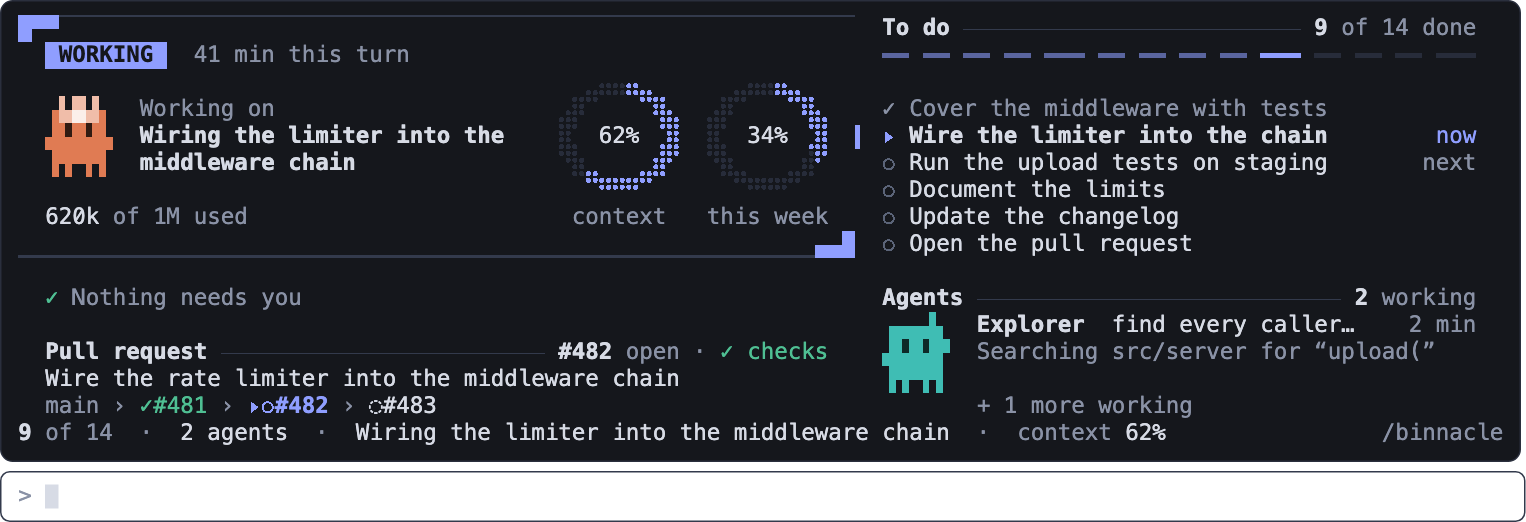
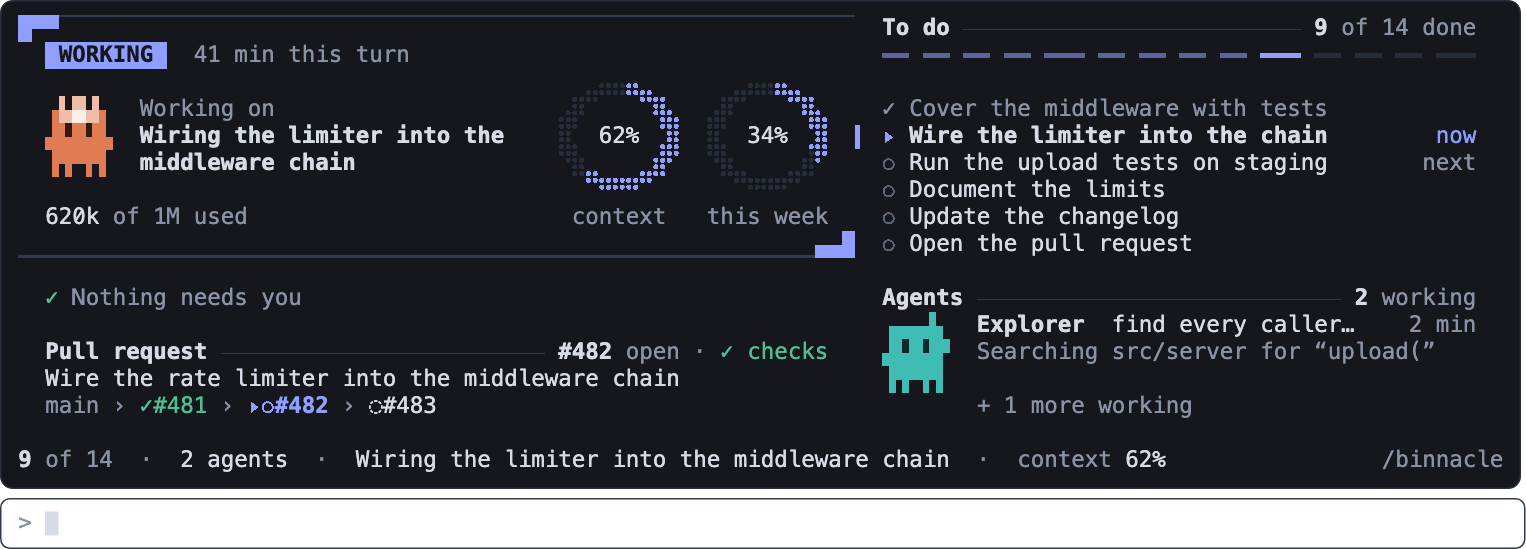
Ready to share: tests pass on any platform, the band keeps Watch, small fixes (#7)
- Tests: the journal, export, deep-search and step-page tests simulated
Windows paths, which the test kit resolves against the working folder on
macOS and Linux, so 21 of them failed there (the features work: the live
  journal is written). A shared diskPath() keeps their Windows semantics
and makes them pass on any host. The journal tests' fake process runner
  now counts only folder removals, not the PR fetch's git call.
- Band (R57): the second row keeps its Watch count or a waiting ask
ahead
  of the PR chip; the chip gives way first. The desktop app's Svg band
draws the same PR chip. The strip in the band leaves one blank row above
  the band's own line where a row is spare.
- README: the band's Watch wording; band, strip, desktop and Show as
  images redrawn.

Checks: `claude plugin test` over all 49 files: 1,015 tests, 0 failures
(the 21 that always failed on macOS now pass). `tsc -p mod`, `npm test`
(480) and `claude plugin validate` pass.

<!-- This is an auto-generated comment: release notes by coderabbit.ai
-->

<!-- coderabbit-ai-generated:v1 -->

## Summary by CodeRabbit

* **New Features**
* The compact band can now display pull request details, including the
PR number, check status, and stack position when available.
* PR details appear only when there’s room beside the band’s status or
waiting message; calm status text can yield space for them.
* A blank row now separates strip content from the band’s line when
space allows.
* **Documentation**
[…]

diff --git a/mod/hooks/views/svg.ts b/mod/hooks/views/svg.ts
@@ -14,11 +14,12 @@
 // none of the views that have one), so vitest loads it. The header's words
 // come from the pane's own functions in `svgview.tsx` (`deckHead`), handed in.
 
-import type { AgentRow, Timeline, UiState } from '../../types'
+import type { AgentRow, Timeline, UiState, PrState } from '../../types'
 import { needs, watch } from '../model/alerts'
 import type { NeedsOptions } from '../model/alerts'
 import { summary } from '../model/select'
 import { agentsWords, bandModel, bandWords, needsPiece } from './bandmodel'
+import { checksMark, stackIndex } from '../model/pr'
 import type { BandModel } from './bandmodel'
 import { critterBox, DOT_BITS, gaugeHue, PALETTE } from './raster'
 import type { Ground, Hue, Palette } from './raster'
@@ -379,6 +380,22 @@ const bandWidth = (cols: number): number => Math.max(480, Math.min(1400, Math.ro
 /** One piece of a line of mixed styles. */
 type Piece = { t: string; fill?: string; bold?: boolean }
 
+/** The band's PR chip as Svg pieces (R57): `#482 ✓ stack 2/3`, the checks mark in mint or red, the stack words dim. */
+function chipPieces(pr: PrState | undefined): Piece[] {
+  if (pr === undefined || (pr.current === undefined && pr.stack === undefined)) return []
+  const out: Piece[] = []
+  const n = pr.current?.number
+  if (n !== undefined) {
+    out.push({ t: `#${n}`, bold: true })
+    const c = pr.current?.checks
+    const mark = checksMark(c)
+    if (mark !== '') out.push({ t: ` ${mark}`, fill: c === 'pass' ? ink('mint') : c === 'fail' ? ink('red') : DIM() })
+  }
+  const items = pr.stack?.items
+  if (items !== undefined && items.length > 1) out.push({ t: `${out.length > 0 ? ' ' : ''}stack ${stackIndex(pr) + 1}/${items.length}`, fill: DIM() })
+  return out
+}
+
 /** Pieces as the tspans of one `<text>`; `size` is the line's. */
 function tspans(x: number, y: number, pieces: Piece[], o: { size?: number; anchor?: 'end' } = {}): string {
   const anchor = o.anchor !== undefined ? ` text-anchor="${o.anchor}"` : ''
@@ -413,7 +430,7 @@ const figurePiece = (pct: number): Piece => ({ t: `${pct}%`, bold: pct >= 70, fi
  * to-do bar and its words. At idle one dim line. `/binnacle` is the Button beside
  * the Svg, not drawn in it. \`model\` is the band's own when it has read one.
  */
-export function bandSvg(t: Timeline, u: UiState, now: number, cols: number, model?: BandModel, g: Ground = 'night'): string {
+export function bandSvg(t: Timeline, u: UiState, now: number, cols: number, model?: BandModel, g: Ground = 'night', pr?: PrState): string {
   ground = g
   const m = model ?? bandModel(t, u, now)
   const W = bandWidth(cols)
@@ -474,7 +491,18 @@ export function bandSvg(t: Timeline, u: UiState, now: number, cols: number, mode
     if (m.working > 0) words.push(...(words.length > 0 ? [sep] : []), { t: agentsWords(m), fill: DIM() })
     words.push(...(words.length > 0 ? [sep] : []), { t: needsPiece(m), fill: DIM() })
   }
-  s += tspans(wx, 43, words, { size: 12.5 })
+  // R57: as on the terminal, only the calm "nothing needs you" yields to the chip; a Watch count or a waiting ask does not.
+  const calm = m.form === 'working' && needsPiece(m) === 'nothing needs you'
+  // R57: the PR chip at the right of row 2, as the terminal band draws it (`#482 ✓ stack 2/3`).
+  const chip = chipPieces(pr)
+  const chipW = chip.reduce((n, p) => n + p.t.length, 0) * 12.5 * 0.52
+  const widthOf = (ps: Piece[]): number => ps.reduce((n, p) => n + p.t.length, 0) * 12.5 * 0.52
+  const fits = (ps: Piece[]): boolean => wx + widthOf(ps) + 24 + chipW <= right
+  // Without the calm piece (and its separator) when that is what makes room for the chip.
+  const shown = chip.length > 0 && !fits(words) && calm ? words.slice(0, words.length > 1 ? -2 : -1) : words
+  const withChip = chip.length > 0 && fits(shown)
+  s += tspans(wx, 43, withChip ? shown : words, { size: 12.5 })
+  if (withChip) s += tspans(right, 43, chip, { size: 12.5, anchor: 'end' })
   return bounded(`${s}</svg>`, W, dm)
 }
 
@@ -503,6 +531,8 @@ export function nowDeckAlt(t: Timeline, u: UiState, now: number, head: DeckHead,
 }
 
 /** The band in words. */
-export function bandAlt(t: Timeline, u: UiState, now: number, model?: BandModel): string {
-  return bandWords(model ?? bandModel(t, u, now)).slice(0, MAX_ALT)
+export function bandAlt(t: Timeline, u: UiState, now: number, model?: BandModel, pr?: PrState): string {
+  // R57: the alt says what the picture says, the PR chip included.
+  const chip = chipPieces(pr).map(p => p.t).join('').trim()
+  return `${bandWords(model ?? bandModel(t, u, now))}${chip !== '' ? `. Pull request ${chip}` : ''}`.slice(0, MAX_ALT)
 }

diff --git a/mod/hooks/views/band.tsx b/mod/hooks/views/band.tsx
@@ -263,31 +263,38 @@ function rowOne(m: BandModel, room: number): Run[] {
 
 /** Row 2: the to-do bar and its words, `/binnacle` at the right. */
 function rowTwo(ctx: ViewCtx, $: EngineInterface, m: BandModel, room: number, countCue = false): RenderElement {
-  // R46: the PR chip (`#123 ✓ stack 2/4`) before `/binnacle` while there is room for the to-do words beside it.
-  const chip = prChip(ctx.pr)
-  const withChip = chip.length > 0 && room - widthOf(chip) - 3 - MC.length >= 40
-  const mc: Run[] = withChip ? [...chip, spaces(3), dim(MC)] : [dim(MC)]
-  const mcW = widthOf(mc)
   const cells = Math.max(10, Math.min(BAR_CELLS, room - 34))
   const hasBar = m.total > 0
   const start = hasBar ? cells + BAR_GAP : 0
-  const space = room - start - 1 - mcW
   const count: Run[] = [countCue ? { text: String(m.done), bold: true, color: C.accent } : bold(String(m.done)), dim(` of ${m.total} done`)]
   const agents: Run[] = m.working > 0 ? [dim(agentsWords(m))] : []
   const pieces: Run[][] = []
-  if (m.ask !== undefined && commandBelow(m, room)) {
-    // M9, I5: the ask's tool and its command whole, in place of the to-do words; cut at a word only past the row.
-    const cmd: Run[] = [bold(m.ask.tool), plain('  '), bold(m.ask.command)]
-    const fitted = widthOf(cmd) + 1 + mcW <= room ? cmd : trimRuns(cmd, room - 1 - mcW)
-    return line(ctx, $, 'band-row-2', spread(fitted, mc, room))
-  }
+  // The calm piece ("nothing needs you") may give way to the chip; a Watch count or a waiting ask may not.
+  let calm = false
   if (m.form === 'asked') {
     const waiting: Run = { text: `${m.waiting} waiting`, color: CK.ask }
     pieces.push(...(hasBar ? [count] : []), m.working > 0 ? [dim(`${m.working} ${m.working === 1 ? 'agent' : 'agents'} working, `), waiting] : [waiting])
   } else if (m.form === 'stopped') {
     pieces.push(...(hasBar ? [count] : []))
   } else {
-    pieces.push(...(hasBar ? [count] : []), ...(agents.length > 0 ? [agents] : []), [dim(needsPiece(m))])
+    const needs = needsPiece(m)
+    calm = needs === 'nothing needs you'
+    pieces.push(...(hasBar ? [count] : []), ...(agents.length > 0 ? [agents] : []), [dim(needs)])
+  }
+  // R46, R57: the PR chip (`#123 ✓ stack 2/4`) sits before `/binnacle` only while every word that matters still fits beside it.
+  const chip = prChip(ctx.pr)
+  const kept = calm ? pieces.slice(0, -1) : pieces
+  const chipW = chip.length > 0 ? widthOf(chip) + 3 : 0
+  // On the command row (M9) the chip must fit beside the whole command, which takes the to-do words' place.
+  const cmd: Run[] | undefined = m.ask !== undefined && commandBelow(m, room) ? [bold(m.ask.tool), plain('  '), bold(m.ask.command)] : undefined
+  const withChip = chip.length > 0 && (cmd !== undefined ? widthOf(cmd) + 1 + chipW + MC.length <= room : widthOf(joined(kept, 3)) <= room - start - 1 - chipW - MC.length)
+  const mc: Run[] = withChip ? [...chip, spaces(3), dim(MC)] : [dim(MC)]
+  const mcW = widthOf(mc)
+  const space = room - start - 1 - mcW
+  if (cmd !== undefined) {
+    // M9, I5: the ask's tool and its command whole, in place of the to-do words; cut at a word only past the row.
+    const fitted = widthOf(cmd) + 1 + mcW <= room ? cmd : trimRuns(cmd, room - 1 - mcW)
+    return line(ctx, $, 'band-row-2', spread(fitted, mc, room))
   }
   let words: Run[] = joined(pieces, 3)
   for (let n = pieces.length; n > 0 && widthOf(words) > space; n--) words = joined(pieces.slice(0, n - 1), 3)
@@ -423,7 +430,7 @@ export function registerBand(on: On, options: { look?: string; ground?: unknown;
       const ctx: ViewCtx = { e: e as RenderInput, t, u, cols, now, look, site: BAND_SITE, ground: groundOf(options.ground, theme), pr }
       if (!isStrip && !m.nothing) {
         // `/binnacle` stays pressable beside the Svg: a press opens the pane, as the command does.
-        const svg = bandSvgOf($, { e: e as RenderInput, look, t, u, now, cols, model: m, ground: ctx.ground ?? 'night', presses: [{ key: 'band-mc', label: MC, onPress: () => leaveStrip($) }] })
+        const svg = bandSvgOf($, { e: e as RenderInput, look, t, u, now, cols, model: m, ground: ctx.ground ?? 'night', pr, presses: [{ key: 'band-mc', label: MC, onPress: () => leaveStrip($) }] })
         if (svg !== null) return svg
       }
       // R55: while the person tries the Show as styles, their row sits on top of the band or the strip.

diff --git a/mod/hooks/journal.test.tsx b/mod/hooks/journal.test.tsx
@@ -7,6 +7,7 @@ import { empty } from './model/reduce'
 import { initialUi } from './state'
 import { problems } from './model/select'
 import { todoBlock } from './model/todo'
+import { diskPath } from './fsdisk.testkit'
 
 const HOME = 'C:/home'
 const ROOT = `${HOME}/.claude/binnacle`
@@ -16,7 +17,7 @@ const NOW = 10 * DAY
 
 type File = { text: string; mtimeMs: number }
 
-const norm = (p: string): string => p.replace(/\\/g, '/')
+const norm = diskPath
 
 // An in-memory disk: files in a map (folders implied by their paths), and
 // the removals the platform's own command was asked for.
@@ -267,6 +268,10 @@ test('with no home folder the journal writes nothing', async () => {
 })
 
 // Through the mod itself: the disk answers the engine's fs calls beneath it.
+const NOT_A_REPO = { exitCode: 128, stdout: '', stderr: 'fatal: not a git repository', isStdoutTruncated: false, isStderrTruncated: false }
+/** The platform's own folder removal, as journal.ts runs it: `cmd /d /c rmdir /s /q` on Windows, `rm -rf --` elsewhere. */
+const isRemoval = (argv: readonly string[]): boolean => (argv[0] === 'cmd' && argv[3] === 'rmdir') || argv[0] === 'rm'
+
 // `box.sessionId` is what `$.session.id()` answers; a test may change it.
 // With `ownState`, the world keeps $.state itself (see `stateBeneath`) so a
 // test can reset it as a /clear does.
@@ -287,7 +292,9 @@ function world(on: On, d: Disk, sessionId: string, opts: { failCommand?: boolean
   on('fs.exists', (_, e) => ({ value: d.exists(e.path) }))
   on('fs.list', (_, e) => ({ value: d.list(e.path) }))
   on('fs.stat', (_, e) => ({ value: d.stat(e.path) }))
-  on('process.run', (_, e) => ({ value: d.remove(e.argv) }))
+  // Prune's removal reaches the disk; any other command (the PR fetch's git and gh at session start)
+  // answers as it would outside a repository, so it never counts as a removal.
+  on('process.run', (_, e) => ({ value: isRemoval(e.argv) ? d.remove(e.argv) : NOT_A_REPO }))
   if (opts.ownState === true) {
     box.resetState = stateBeneath(on, box)
     return box

diff --git a/mod/hooks/views/strip.test.tsx b/mod/hooks/views/strip.test.tsx
@@ -136,13 +136,14 @@ test('text form: /binnacle strip closes the pane, writes ui.strip and the band d
   expect(uiOf(w).paneOpen).toBe(false)
   for (const surface of SURFACES) {
     const rows = await bandRows($, 110, 20, surface)
-    // Now's header (9 rows), a blank and the needs slot in the left 62 columns, To do and Agents beside them, then the band's one compact row.
-    expect(rows.length).toBe(12)
+    // Now's header (9 rows), a blank and the needs slot in the left 62 columns, To do and Agents beside them, a blank (R57), then the band's one compact row.
+    expect(rows.length).toBe(13)
     expect(rows[0]!.startsWith('┏━━')).toBe(true)
     expect(rows[1]!.startsWith('   WORKING')).toBe(true)
     expect(rows.some(r => colOf(r, FOCUS.split(' ')[0]!) === 9)).toBe(true)
     expect(colOf(rows[0], 'To do')).toBe(64)
-    const line = rows[11]!
+    expect(rows[11]!.trim()).toBe('')
+    const line = rows[12]!
     expect(line.startsWith('1 of 3  ·  2 agents')).toBe(true)
     expect(line.length).toBe(110)
   }
@@ -258,8 +259,8 @@ test('from 96 columns the two columns sit side by side: the header in the left 6
   expect(colOf(rows[0], 'To do')).toBe(64)
   expect(rows.some(r => colOf(r, 'Agents') === 64)).toBe(true)
   expect(rows.some(r => colOf(r, 'Explorer') === 71)).toBe(true)
-  // Header 9 rows, a blank, the all-clear line: the right column trimmed to that height, then the compact line.
-  expect(rows.length).toBe(12)
+  // Header 9 rows, a blank, the all-clear line: the right column trimmed to that height, then a blank (R57) and the compact line.
+  expect(rows.length).toBe(13)
   expect(rows[10]).toContain('✓ Nothing needs you')
 })
 

diff --git a/mod/hooks/views/svgview.tsx b/mod/hooks/views/svgview.tsx
@@ -4,7 +4,7 @@
 
 import type { EngineInterface, RenderElement, RenderInput } from 'claude-code'
 
-import type { Timeline, UiState } from '../../types'
+import type { PrState, Timeline, UiState } from '../../types'
 import { headerState, needs } from '../model/alerts'
 import { paneNeedsOptions } from './needs'
 import { todoBlock } from '../model/todo'
@@ -95,7 +95,7 @@ export function deckSvg(ctx: ViewCtx, $: EngineInterface, presses: SvgPress[] = 
 }
 
 /** What the band's Svg reads: the band's render input and its look, the state, the clock and its width; `presses` go beside it. */
-export type BandSvgArgs = { e: RenderInput; look: Look; t: Timeline; u: UiState; now: number; cols: number; model?: BandModel; ground?: Ground; presses?: SvgPress[] }
+export type BandSvgArgs = { e: RenderInput; look: Look; t: Timeline; u: UiState; now: number; cols: number; model?: BandModel; ground?: Ground; presses?: SvgPress[]; pr?: PrState }
 
 /**
  * The band as one interactive Svg when the look is `svg`, else null: the
@@ -110,7 +110,7 @@ export function bandSvgOf($: EngineInterface, a: BandSvgArgs): RenderElement | n
   const { Box, Svg } = table
   return (
     <Box key="band-svg" flexDirection="row" columnGap={1}>
-      <Svg source={bandSvg(a.t, a.u, a.now, a.cols, a.model, a.ground ?? 'night')} alt={bandAlt(a.t, a.u, a.now, a.model)} isInteractive />
+      <Svg source={bandSvg(a.t, a.u, a.now, a.cols, a.model, a.ground ?? 'night', a.pr)} alt={bandAlt(a.t, a.u, a.now, a.model, a.pr)} isInteractive />
       {pressRow($, a.e, 'band-svg-presses', a.presses ?? [])}
     </Box>
   )

diff --git a/mod/hooks/views/now.test.tsx b/mod/hooks/views/now.test.tsx
@@ -8,6 +8,7 @@ import { agent, asked, busy, finished, idle, longList, NOW, step, watching } fro
 import { warmWords } from './fit'
 import { dealRows } from './overview'
 import { backTo, keepLog, LOGS, screen } from './screen.testkit'
+import { diskPath } from '../fsdisk.testkit'
 
 // Now in the cockpit (spec "Screens", its Tests line, and the rulings the
 // screen carries). The mock boards themselves are now.fidelity.test.tsx's.
@@ -251,7 +252,7 @@ test('Now at rest e: the armed hint exports the handoff, the same write /binnacl
     throw new Error('ENOENT')
   })
   on('fs.write', (_, e) => {
-    writes.push(e.path.split(String.fromCharCode(92)).join('/'))
+    writes.push(diskPath(e.path))
     return { value: undefined }
   })
   on('ui.copy', () => ({ value: { isCopied: true as const } }))
@@ -264,7 +265,7 @@ test('Now at rest e: the armed hint exports the handoff, the same write /binnacl
   await ui.unmount()
   expect(writes).toHaveLength(1)
   expect(writes[0]).toMatch(/export-.*\.md$/)
-  expect((stored.get('timeline') as Timeline).lastExport?.path.split(String.fromCharCode(92)).join('/')).toBe(writes[0])
+  expect(diskPath((stored.get('timeline') as Timeline).lastExport?.path ?? '')).toBe(writes[0])
   // the command runs the same handler: with the clock held, the same path
   await $.command.run({ command: 'binnacle', args: 'export' } as never)
   expect(writes).toHaveLength(2)

diff --git a/mod/hooks/views/stripband.tsx b/mod/hooks/views/stripband.tsx
@@ -160,8 +160,11 @@ export function stripBandView(ctx: ViewCtx, $: EngineInterface, opts: BandStrip)
   const press: Press = f => andThen(f, opts.after)
   const body = Math.max(0, opts.maxRows - 1)
   const st = nowState(ctx)
-  const compact = (
+  // R57: one blank row between the strip and the band's own line under it, so the stack row and that line never
+  // touch; only where the strip's rows leave a spare row (a blank row never costs content or passes maxRows).
+  const compact = (used: number): RenderElement => (
     <Box key="strip-line" flexDirection="column">
+      {used > 0 && used + 2 <= opts.maxRows ? blank(ctx, $, 'strip-line-gap') : null}
       {opts.line}
     </Box>
   )
@@ -173,7 +176,7 @@ export function stripBandView(ctx: ViewCtx, $: EngineInterface, opts: BandStrip)
     return (
       <Box flexDirection="column">
         {columns(ctx, $, left, right)}
-        {compact}
+        {compact(Math.max(leftH, right.reduce((n, el) => n + heightOf(el), 0)))}
       </Box>
     )
   }
@@ -191,7 +194,7 @@ export function stripBandView(ctx: ViewCtx, $: EngineInterface, opts: BandStrip)
   return (
     <Box flexDirection="column">
       {stacked}
-      {compact}
+      {compact(stacked.reduce((n, el) => n + heightOf(el), 0))}
     </Box>
   )
 }

diff --git a/mod/hooks/views/handoff.test.tsx b/mod/hooks/views/handoff.test.tsx
@@ -4,6 +4,7 @@ import type { On } from 'claude-code'
 import type { Timeline } from '../../types'
 import { empty } from '../model/reduce'
 import { digestParts, KEPT_WORDS } from './handoff'
+import { diskPath } from '../fsdisk.testkit'
 
 // The engine beneath the mod for /binnacle export: a timeline held under the
 // current shape, a home folder, and a disk and clipboard that accept.
@@ -28,7 +29,7 @@ function world(on: On, t: Timeline, env: Record<string, string> = { USERPROFILE:
     return { value: { isSet: true as const, version } }
   })
   on('fs.write', (_, e) => {
-    writes.push(e.path.replace(/\\/g, '/'))
+    writes.push(diskPath(e.path))
     return { value: undefined }
   })
   on('fs.read', () => {
@@ -47,7 +48,7 @@ test('/binnacle export records when and where it wrote', async ($, on) => {
   expect(writes.length).toBe(1)
   const t = stored.get('timeline') as Timeline
   expect(t.lastExport?.at).toBe(1_000_000)
-  expect(t.lastExport?.path.replace(/\\/g, '/')).toBe(writes[0])
+  expect(diskPath(t.lastExport?.path ?? '')).toBe(writes[0])
 })
 
 test('/binnacle export with no home records nothing', async ($, on) => {

diff --git a/mod/hooks/fsdisk.testkit.ts b/mod/hooks/fsdisk.testkit.ts
@@ -1,0 +1,15 @@
+// A test helper, not part of the mod. Imported by *.test.ts(x) files only.
+//
+// Tests simulate Windows (USERPROFILE 'C:/Users/x', OS 'Windows_NT'), so the
+// mod asks for paths like 'C:/Users/x/.claude/binnacle/...'. On a POSIX host
+// the test kit resolves such a path, which is not absolute there, against the
+// working directory before a hook sees it: '/tmp/run/C:/Users/x/...'. This
+// cuts anything before a Windows drive and turns backslashes into slashes, so
+// a fake disk keyed by Windows paths, and a path assertion, read the same on
+// Windows and on macOS or Linux.
+
+/** The Windows path the mod asked for, from the path the test kit handed a hook. */
+export function diskPath(path: string): string {
+  // Greedy: the last drive-like segment, so a working folder holding one (`/tmp/a:/run/C:/...`) is cut whole.
+  return path.replace(/\\/g, '/').replace(/^.*(?=[A-Za-z]:\/)/, '')
+}

diff --git a/mod/hooks/views/timeline.test.tsx b/mod/hooks/views/timeline.test.tsx
@@ -9,6 +9,7 @@ import { filesOf } from './detail'
 import { decode, PALETTE } from './raster'
 import { backTo, colOf, keepLog, LOGS, screen } from './screen.testkit'
 import { mapBuckets } from './timeline'
+import { diskPath } from '../fsdisk.testkit'
 
 const SURFACES = ['terminal', 'desktop', 'vscode', 'mobile'] as const
 const NOW = 1_000_000
@@ -40,9 +41,9 @@ function world(
   on('ui.log', keepLog)
   on('session.id', () => ({ value: 'sess-1' }))
   on('fs.read', async (_, e) => {
-    reads.push(e.path.replaceAll('\\', '/'))
+    reads.push(diskPath(e.path))
     if (readCostMs > 0 && e.path.includes('steps')) await clock?.advance(readCostMs)
-    const text = files.get(e.path.replace(/\\/g, '/'))
+    const text = files.get(diskPath(e.path))
     if (text === undefined) throw new Error(`ENOENT: ${e.path}`)
     return { value: text }
   })

diff --git a/mod/hooks/views/shell.test.tsx b/mod/hooks/views/shell.test.tsx
@@ -5,6 +5,7 @@ import type { Timeline, UiState } from '../../types'
 import { empty } from '../model/reduce'
 import { initialUi } from '../state'
 import { colOf, screen } from './screen.testkit'
+import { diskPath } from '../fsdisk.testkit'
 
 const SURFACES = ['terminal', 'desktop', 'vscode', 'mobile'] as const
 const SHAPES: Record<string, string> = { timeline: 'timeline-4', ui: 'ui-4' }
@@ -463,6 +464,4 @@ test('/binnacle export with no home answers and writes nothing', async ($, on) =
   expect(got.text).toContain('Could not export')
 })
 
-function slash(path: string): string {
-  return path.split(String.fromCharCode(92)).join('/')
-}
+const slash = diskPath

diff --git a/README.md b/README.md
@@ -105,7 +105,7 @@ The mod asks `gh` (and `gh stack` when it is installed) at session start, two se
 Most dashboards shout about everything. This one keeps two lists apart, so amber always means the same thing.
 
 - **Needs you** holds only what blocks the session on a dialog: a permission, a question, a plan to approve, or an MCP server's input request. It says who asks and what for, and points you to the prompt. It has no dismiss key; it clears when the dialog is answered.
-- **Watch** holds what is worth a glance and asks nothing. It stays off Now (the band's one-row form counts it, slim and the strip show it): a step that has run far longer than usual, an agent that has gone quiet for 10 minutes, a long run (60 minutes for an agent, 120 for a turn; both are options), the same command failing again, and a loop. Watch is never amber, never takes the keyboard, and `x` dismisses a row.
+- **Watch** holds what is worth a glance and asks nothing. It stays off Now (the band counts it, "2 to watch", and slim and the strip show it): a step that has run far longer than usual, an agent that has gone quiet for 10 minutes, a long run (60 minutes for an agent, 120 for a turn; both are options), the same command failing again, and a loop. Watch is never amber, never takes the keyboard, and `x` dismisses a row.
 
 Amber is used for a dialog and nothing else. A gauge that fills up turns bold at 70 % and red at 90 %, not amber.
 
@@ -182,7 +182,7 @@ A toast tells you once when the context reaches 80 %.
   <img src="docs/readme/band.png" width="900" alt="The band in seven forms. Working: the lead's Critter, 'Working on' and the goal, 'context 62%  week 34%', and a second row with the to-do bar, '9 of 14 done · 2 agents working', the PR chip '#482 ✓ stack 2/3' and '/binnacle'. A dialog waiting: the asking agent's Critter with a question-mark badge, 'Needs you' in amber, 'General asks to run a command Bash npm run deploy -- --env staging', 'answer below', and the to-do bar and PR chip beneath. After a failed turn: the lead greyed with a red exclamation badge, 'Stopped' and the reason 'The API was overloaded (529)' in red. Before anything happens: the top of the lead's Critter peeks up beside 'Ready when you are' and '/binnacle'. All done: the peeking lead and one dim row, 'All 14 done · 1 h 18 min · 6 files changed · cache warm 2 min'. One row, at 64 columns '9 of 14 · 2 agents · context 62%' and at 40 columns '9 of 14 · 2 agents', each with /binnacle.">
 </p>
 
-The band sits above the prompt and is there even when the pane is closed, so the three answers never leave the screen. It shows one Critter (the lead, or whoever is asking), the goal, the to-do bar and the gauges as words. A dialog turns it amber and names the ask. Watch never colours it. When everything is done it shrinks to one dim row with the lead peeking up beside it, and while the pane is open it is one compact row. It never disappears: before anything happens the lead's Critter peeks up from below beside "Ready when you are", so a new session already shows where Binnacle lives. It also carries the PR chip (`#482 ✓ stack 2/3`). The one-row form (pane open, or under 80 columns) counts what is under Watch ("2 to watch"); the two-row form does not. A narrow band drops the gauges first, and cuts the goal only at a word.
+The band sits above the prompt and is there even when the pane is closed, so the three answers never leave the screen. It shows one Critter (the lead, or whoever is asking), the goal, the to-do bar and the gauges as words. A dialog turns it amber and names the ask. Watch never colours it. When everything is done it shrinks to one dim row with the lead peeking up beside it, and while the pane is open it is one compact row. It never disappears: before anything happens the lead's Critter peeks up from below beside "Ready when you are", so a new session already shows where Binnacle lives. It also carries the PR chip (`#482 ✓ stack 2/3`). Both forms count what is under Watch ("2 to watch"); when the row runs short, the PR chip gives way before the count does. A narrow band drops the gauges first, and cuts the goal only at a word.
 
 ### Slim, strip and the desktop app
 
